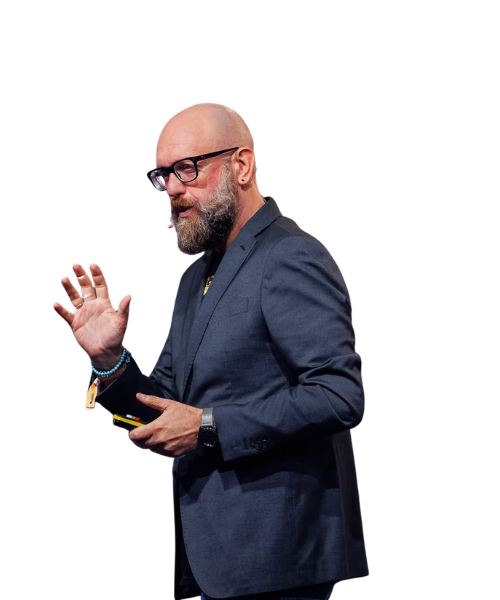
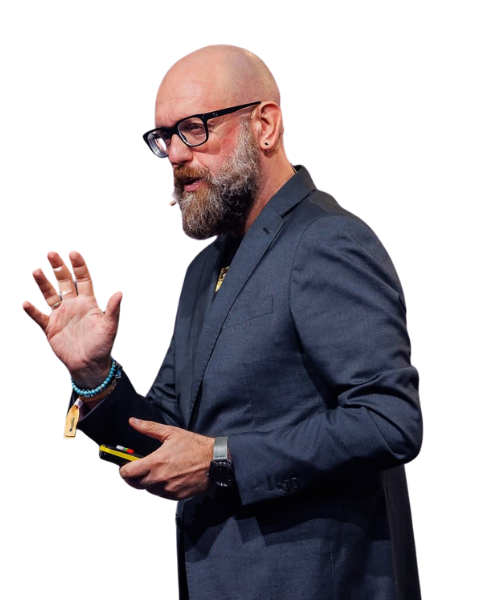
Polish speaker portraits and sponsor actions

diff --git a/app/ageless-unusually-header.module.css b/app/ageless-unusually-header.module.css
@@ -666,9 +666,10 @@
 .sponsorSubmit,
 .sponsorWhatsApp {
   display: flex;
-  width: max-content;
-  min-width: 12rem;
+  width: auto;
+  min-width: 0;
   min-height: 3.6rem;
+  flex: 1 1 0;
   padding: 0.85rem 0.9rem 0.85rem 1.5rem;
   align-items: center;
   justify-content: space-between;
@@ -690,7 +691,8 @@
     transform 420ms cubic-bezier(0.22, 1, 0.36, 1);
 }
 
-.sponsorSubmit i {
+.sponsorSubmit i,
+.sponsorWhatsAppIcon {
   display: grid;
   width: 2rem;
   aspect-ratio: 1;
@@ -716,15 +718,17 @@
 }
 
 .sponsorWhatsApp {
-  min-width: 18rem;
-  justify-content: center;
-  padding-right: 1.5rem;
   color: #fff;
   background: #171717;
   border: 1px solid rgb(255 255 255 / 8%);
 }
 
-.sponsorWhatsApp svg {
+.sponsorWhatsAppIcon {
+  color: #fff;
+  background: #171717;
+}
+
+.sponsorWhatsAppIcon svg {
   width: 1.25rem;
   height: 1.25rem;
   flex: none;
@@ -733,10 +737,21 @@
 
 .sponsorWhatsApp:hover,
 .sponsorWhatsApp:focus-visible {
-  color: #fff;
-  background: #292929;
+  color: #111;
+  background: #bdff39;
   box-shadow: 0 0.8rem 2rem rgb(0 0 0 / 16%);
   transform: translateY(-0.18rem);
+}
+
+.sponsorWhatsApp:hover .sponsorWhatsAppIcon,
+.sponsorWhatsApp:focus-visible .sponsorWhatsAppIcon {
+  color: #111;
+  background: #fff;
+}
+
+.sponsorWhatsApp:hover .sponsorWhatsAppIcon svg,
+.sponsorWhatsApp:focus-visible .sponsorWhatsAppIcon svg {
+  color: #111;
 }
 
 @media (max-width: 1260px) {

diff --git a/app/speaker-data.ts b/app/speaker-data.ts
@@ -20,7 +20,7 @@ export const speakers2027: AgelessSpeaker[] = [
     image: "/speakers/zak-williams.webp",
     pageImage: "/assets/current-speakers/zak-williams.png",
     name: "Zak Williams",
-    focus: "Mental Infrastructure",
+    focus: "Mental Health",
     description:
       "Prominent mental health advocate and speaker Zak Williams drives scalable infrastructure at the intersection of AI, prestige media, and clinical healthcare. As Co-President of Hypothesis and a seasoned venture builder, he scales cognitive architecture, premium film portfolios, and data-driven systems of care.",
   },
@@ -33,7 +33,7 @@ export const speakers2027: AgelessSpeaker[] = [
       "Founder and CEO of Holistic Hyperbarics, Alex Williams leverages patents in research modalities and chamber innovation to provide leading hyperbaric medicine and patient-centered care. Drawing from a diverse background as an EMT, birth doula, and athlete, she focuses acutely on health optimization and reversing the impact of structural systems on minority communities to deliver whole-person healing.",
   },
   {
-    image: "/speakers/aubrey-degrey.webp",
+    image: "/speakers/aubrey-de-grey-home-bw.png",
     pageImage: "/assets/current-speakers/aubrey-de-grey.png",
     name: "Aubrey de Grey",
     focus: "Anti-Aging Science",

diff --git a/app/ageless-unusually-header.tsx b/app/ageless-unusually-header.tsx
@@ -357,8 +357,10 @@ export function AgelessUnusuallyHeader({
                 rel="noreferrer"
                 aria-label="Talk to us on WhatsApp"
               >
-                <FontAwesomeIcon icon={faWhatsapp} aria-hidden="true" />
                 <span>Talk to us on WhatsApp</span>
+                <i className={styles.sponsorWhatsAppIcon} aria-hidden="true">
+                  <FontAwesomeIcon icon={faWhatsapp} />
+                </i>
               </a>
             </div>
           </form>
